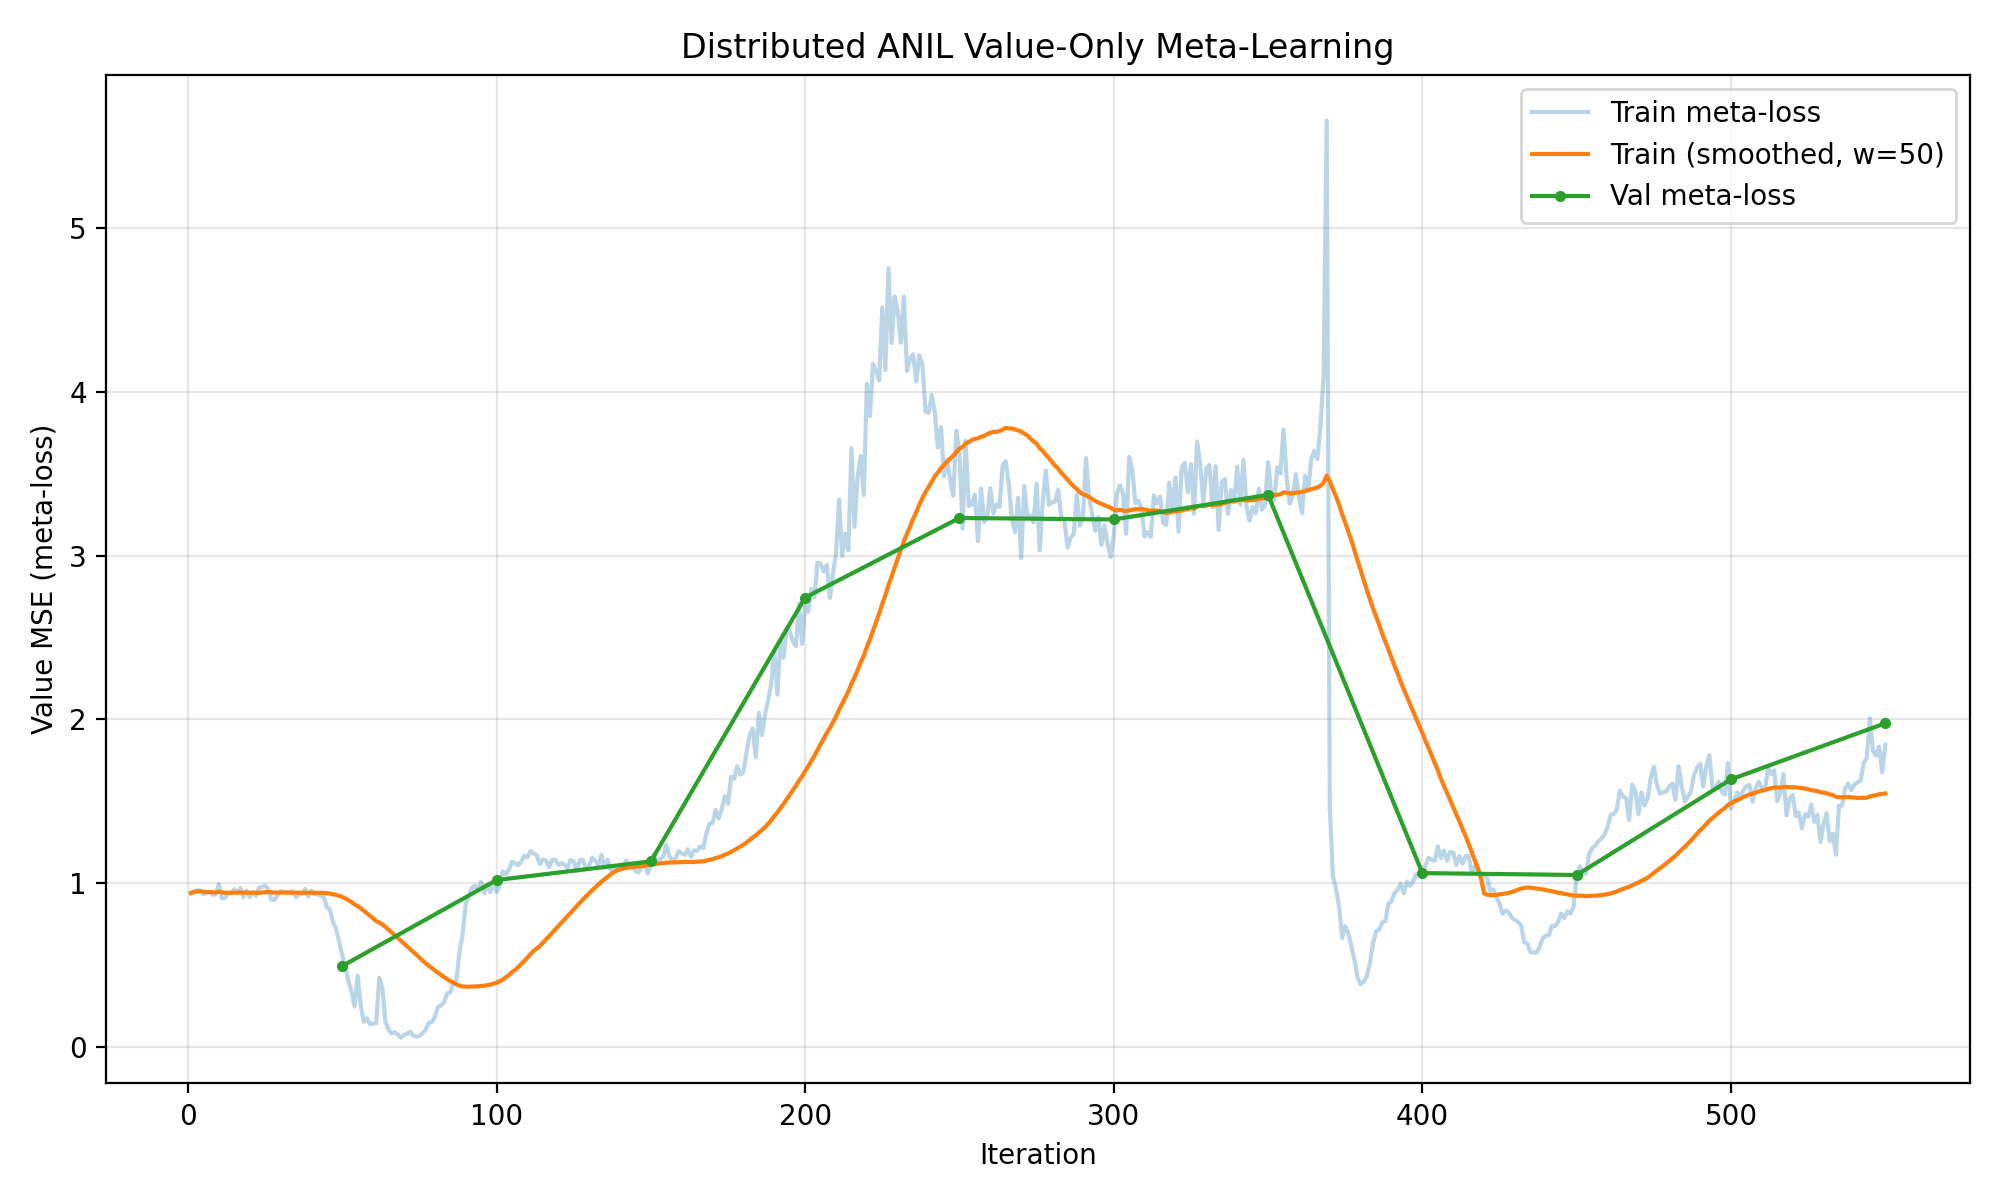
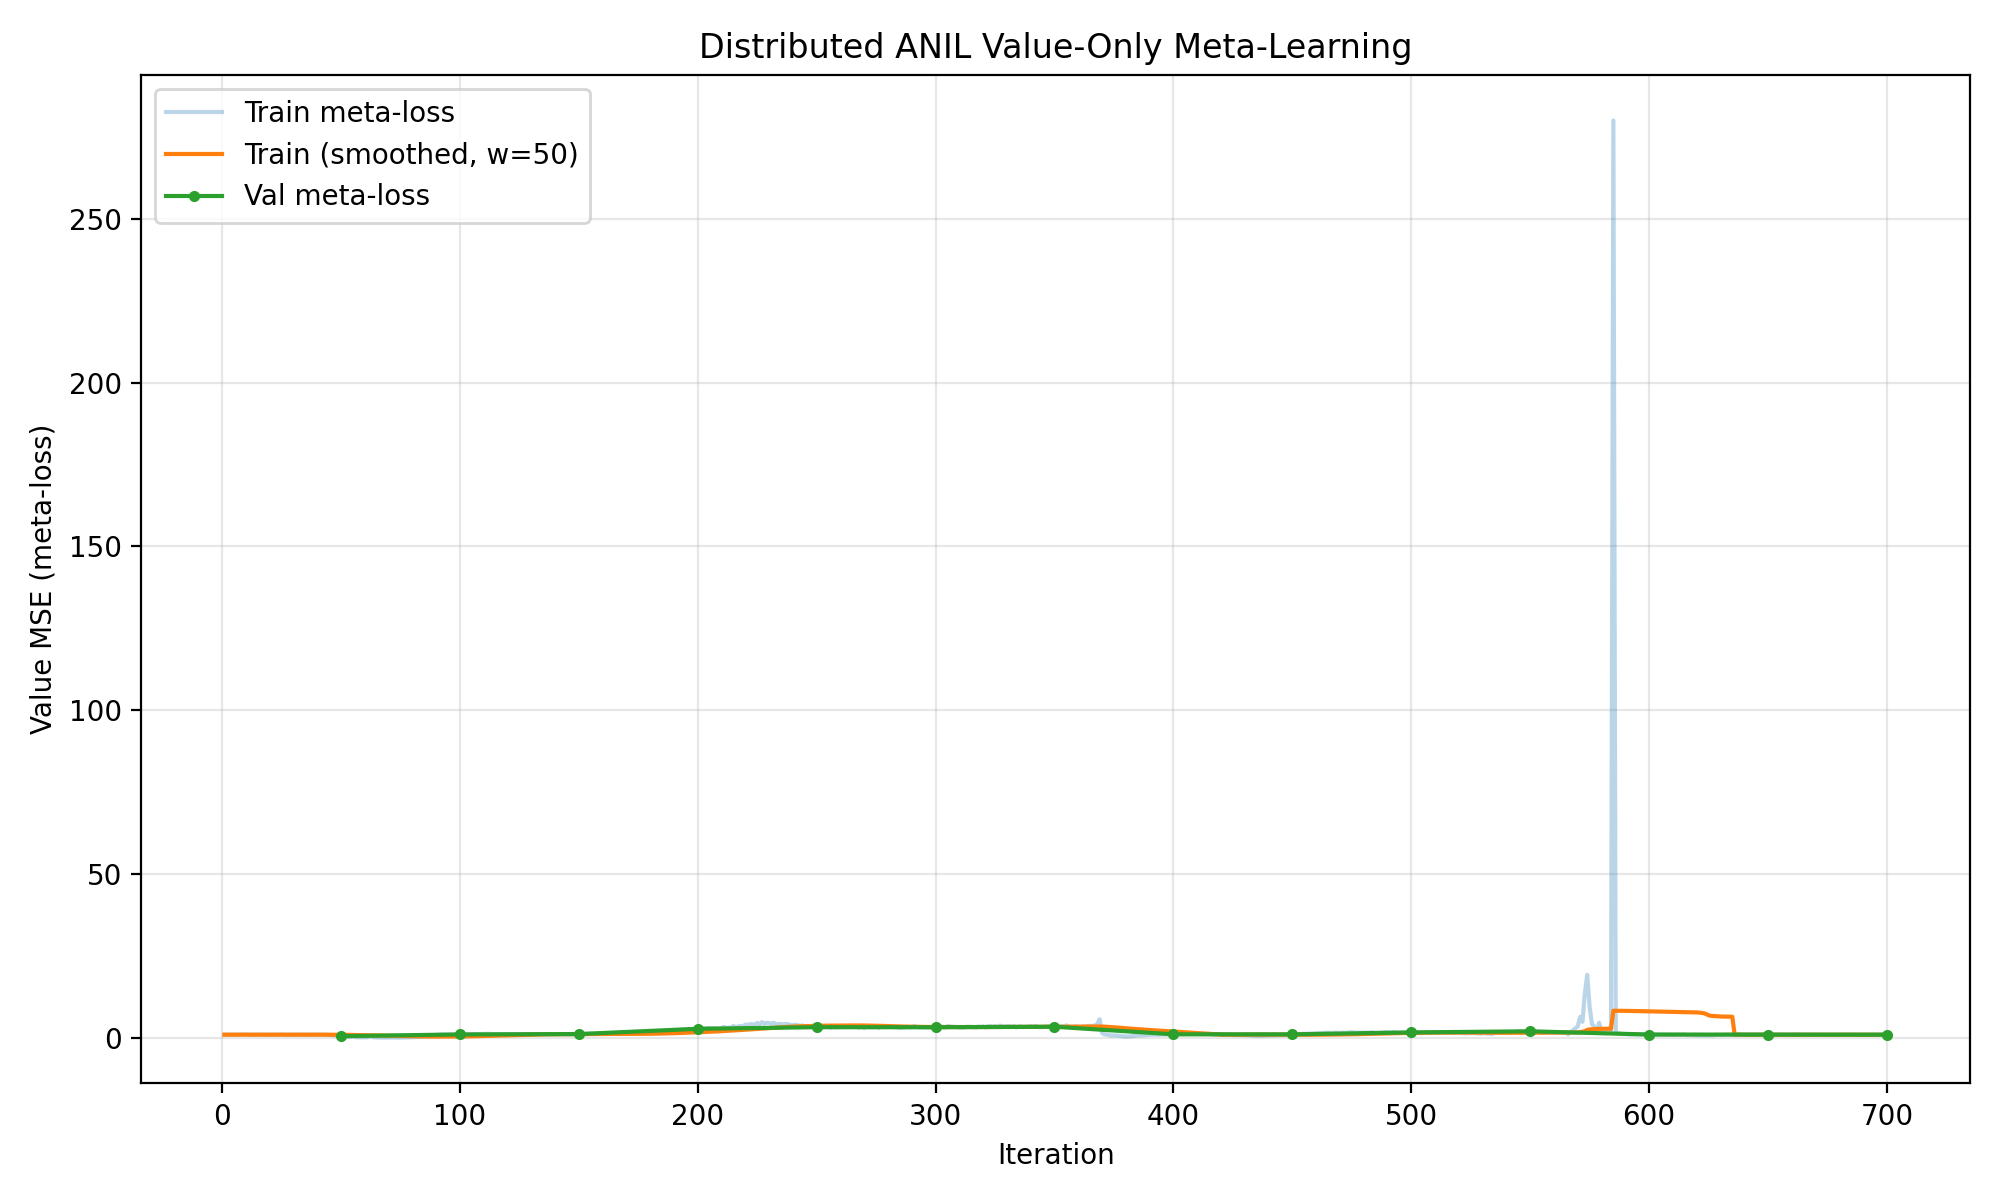
results: auto-update 2026-04-10 22:00

diff --git a/RESULTS.md b/RESULTS.md
@@ -35,12 +35,12 @@ value_hidden=64
 ```
 
 ## latest.pt
-- Iteration: 550
+- Iteration: 700
 - Best val meta-loss: 0.4949
-- Latest train meta-loss: 1.8453
-- Train loss range (last 50): 1.1736 – 2.0063
-- Latest val meta-loss: 1.9762
-- Val loss range (last 10): 1.0196 – 3.3700
+- Latest train meta-loss: 0.9139
+- Train loss range (last 50): 0.8473 – 0.9972
+- Latest val meta-loss: 0.9438
+- Val loss range (last 10): 0.9438 – 3.3700
 
 ## best.pt
 - Iteration: 50
@@ -53,36 +53,36 @@ value_hidden=64
 ## Loss Curve
 ![Loss](runs/game_task_v1/loss.png)
 
-## Console Log (last 30 of 708 lines)
+## Console Log (last 30 of 835 lines)
 ```
-[it   557] meta_loss=1.6665 | 28278ms | 16119s
-[it   558] meta_loss=1.6592 | 28521ms | 16148s
-[it   559] meta_loss=1.6501 | 28552ms | 16176s
-[it   560] meta_loss=1.5927 | 30346ms | 16207s
-[it   561] meta_loss=1.6930 | 28555ms | 16235s
-[it   562] meta_loss=1.5692 | 28585ms | 16264s
-[it   563] meta_loss=1.7354 | 28552ms | 16292s
-[it   564] meta_loss=1.6778 | 27795ms | 16320s
-[it   565] meta_loss=1.6060 | 28508ms | 16349s
-[it   566] meta_loss=1.0867 | 28270ms | 16377s
-[it   567] meta_loss=1.8172 | 27777ms | 16405s
-[it   568] meta_loss=2.2602 | 28354ms | 16433s
-[it   569] meta_loss=2.9018 | 28053ms | 16461s
-[it   570] meta_loss=3.4939 | 28329ms | 16489s
-[it   571] meta_loss=6.3840 | 27883ms | 16517s
-[it   572] meta_loss=4.8604 | 28267ms | 16546s
-[it   573] meta_loss=13.5077 | 28013ms | 16574s
-[it   574] meta_loss=19.2241 | 28633ms | 16602s
-[it   575] meta_loss=9.5813 | 28477ms | 16631s
-[it   576] meta_loss=4.1757 | 28136ms | 16659s
-[it   577] meta_loss=3.3626 | 28705ms | 16688s
-[it   578] meta_loss=2.0857 | 28404ms | 16716s
-[it   579] meta_loss=4.5939 | 28374ms | 16744s
-[it   580] meta_loss=1.6391 | 28366ms | 16773s
-[it   581] meta_loss=1.4185 | 28348ms | 16801s
-[it   582] meta_loss=1.9182 | 28567ms | 16830s
-[it   583] meta_loss=1.8845 | 28594ms | 16858s
-[it   584] meta_loss=1.7986 | 28204ms | 16886s
-[it   585] meta_loss=280.0478 | 28555ms | 16915s
-[it   586] meta_loss=1.6958 | 28563ms | 16944s
+[it   682] meta_loss=0.8905 | 28530ms | 19723s
+[it   683] meta_loss=0.8857 | 28488ms | 19752s
+[it   684] meta_loss=0.8770 | 28616ms | 19780s
+[it   685] meta_loss=0.8810 | 28668ms | 19809s
+[it   686] meta_loss=0.8950 | 28255ms | 19837s
+[it   687] meta_loss=0.8609 | 28454ms | 19866s
+[it   688] meta_loss=0.8889 | 28569ms | 19894s
+[it   689] meta_loss=0.9059 | 28548ms | 19923s
+[it   690] meta_loss=0.8473 | 28508ms | 19951s
+[it   691] meta_loss=0.9150 | 28294ms | 19979s
+[it   692] meta_loss=0.8897 | 27977ms | 20007s
+[it   693] meta_loss=0.9157 | 28746ms | 20036s
+[it   694] meta_loss=0.8914 | 28451ms | 20065s
+[it   695] meta_loss=0.9468 | 28268ms | 20093s
+[it   696] meta_loss=0.9230 | 28517ms | 20121s
+[it   697] meta_loss=0.9003 | 28644ms | 20150s
+[it   698] meta_loss=0.9257 | 28075ms | 20178s
+[it   699] meta_loss=0.9066 | 28469ms | 20207s
+[it   700] meta_loss=0.9139 | 28716ms | 20235s
+  [VAL] meta_loss=0.9438 (best=0.4949)
+[it   701] meta_loss=0.8905 | 28362ms | 20290s
+[it   702] meta_loss=0.8742 | 28195ms | 20318s
+[it   703] meta_loss=0.9013 | 28306ms | 20347s
+[it   704] meta_loss=0.9425 | 28538ms | 20375s
+[it   705] meta_loss=0.9630 | 28225ms | 20403s
+[it   706] meta_loss=0.9090 | 27943ms | 20431s
+[it   707] meta_loss=0.9070 | 28182ms | 20459s
+[it   708] meta_loss=0.9217 | 28328ms | 20488s
+[it   709] meta_loss=0.9321 | 28487ms | 20516s
+[it   710] meta_loss=0.8901 | 28791ms | 20545s
 ```
